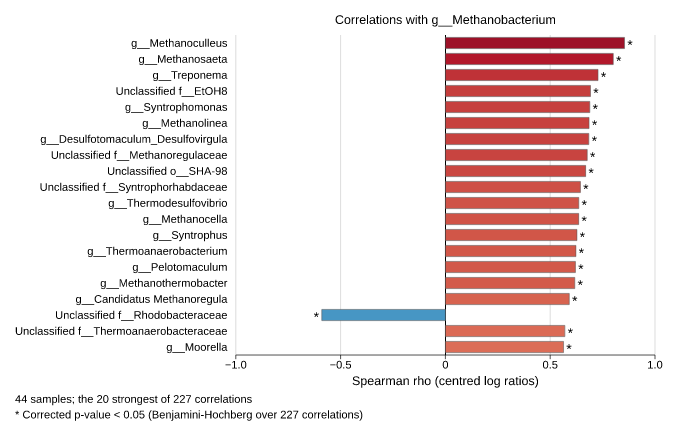
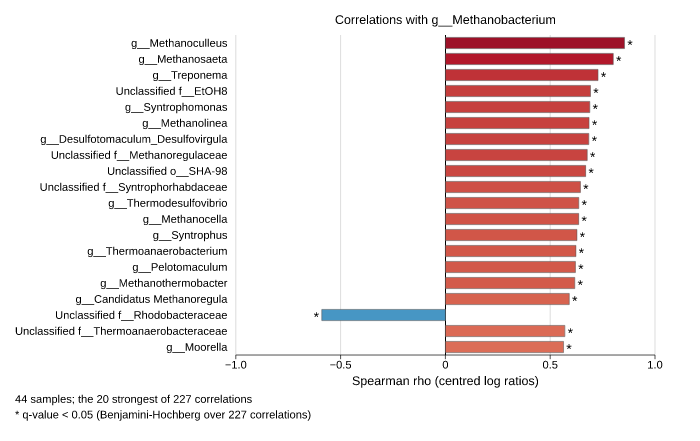
Label Benjamini-Hochberg values as q-values
Both false discovery rate corrections, Benjamini-Hochberg and Storey,
now give "q-value" in plots, tooltips and the co-occurrence marks;
"Corrected p-value" is kept for Bonferroni, Holm-Bonferroni and Sidak.
The p-value filter is again called "q-value filter" under either false
discovery rate, as in STAMP v2. Change 61, documentation and the six
figures that use Benjamini-Hochberg are updated.

Changed region(s): [[0.03, 0.9138, 0.51, 0.9728]]

diff --git a/crates/stamp-gui/tests/ui.rs b/crates/stamp-gui/tests/ui.rs
@@ -1272,32 +1272,49 @@ fn unticked_groups_and_inactive_samples_leave_the_lists() {
 }
 
 #[test]
-fn filter_is_named_for_q_values_under_storeys_correction() {
-    // The label is drawn text; its width shows which one is in use.
+fn filter_is_named_for_q_values_under_a_false_discovery_rate() {
+    use stamp_core::stats::correction::Correction;
+    // The label is drawn text; its pixels show which one is in use.
     let mut harness = Harness::enterotypes();
     harness.settle();
-    let before = harness.screenshot("p_value_filter_label");
-    // Benjamini-Hochberg values are corrected p-values: the name stays.
-    harness.app.session.set_correction(
-        Mode::TwoGroups,
-        stamp_core::stats::correction::Correction::BenjaminiHochberg,
+    let label = |harness: &mut Harness, correction, name| {
+        harness
+            .app
+            .session
+            .set_correction(Mode::TwoGroups, correction);
+        harness.settle();
+        let shot = harness.screenshot(name);
+        (985..1110)
+            .flat_map(|x| (380..403).map(move |y| (x, y)))
+            .map(|(x, y)| shot.pixel(x, y))
+            .collect::<Vec<_>>()
+    };
+    let none = label(&mut harness, Correction::None, "p_value_filter_label");
+    let bonferroni = label(
+        &mut harness,
+        Correction::Bonferroni,
+        "bonferroni_filter_label",
     );
-    harness.settle();
-    let corrected = harness.screenshot("corrected_p_value_filter_label");
-    let same = (985..1110)
-        .flat_map(|x| (380..403).map(move |y| (x, y)))
-        .all(|(x, y)| before.pixel(x, y) == corrected.pixel(x, y));
-    assert!(same, "the filter label changed under Benjamini-Hochberg");
-    harness.app.session.set_correction(
-        Mode::TwoGroups,
-        stamp_core::stats::correction::Correction::Storey,
+    let bh = label(
+        &mut harness,
+        Correction::BenjaminiHochberg,
+        "q_value_filter_label",
     );
-    harness.settle();
-    let after = harness.screenshot("q_value_filter_label");
-    let differs = (985..1110)
-        .flat_map(|x| (380..403).map(move |y| (x, y)))
-        .any(|(x, y)| before.pixel(x, y) != after.pixel(x, y));
-    assert!(differs, "the filter label did not change");
+    let storey = label(&mut harness, Correction::Storey, "storey_filter_label");
+    // "p-value filter" with no correction and under Bonferroni; "q-value
+    // filter" under both false discovery rates.
+    assert!(
+        none == bonferroni,
+        "the filter label changed under Bonferroni"
+    );
+    assert!(
+        none != bh,
+        "the filter label did not change under Benjamini-Hochberg"
+    );
+    assert!(
+        bh == storey,
+        "the filter labels of the two FDR methods differ"
+    );
 }
 
 #[test]

diff --git a/crates/stamp-plot/src/p_values.rs b/crates/stamp-plot/src/p_values.rs
@@ -1,5 +1,5 @@
 //! How plots name the p-values they show: uncorrected, corrected for
-//! testing many features, or Storey's q-values.
+//! testing many features, or q-values of a false discovery rate.
 
 use stamp_core::stats::correction::Correction;
 
@@ -10,9 +10,10 @@ pub enum PValueKind {
     /// chosen or because the plot shows the values before correction.
     #[default]
     Uncorrected,
-    /// Corrected by a method other than Storey's.
+    /// Corrected for the family-wise error rate (Bonferroni,
+    /// Holm-Bonferroni, Sidak).
     Corrected,
-    /// Storey's q-values.
+    /// q-values of a false discovery rate (Benjamini-Hochberg, Storey).
     QValue,
 }
 
@@ -21,7 +22,7 @@ impl PValueKind {
     pub fn of(correction: Correction) -> PValueKind {
         match correction {
             Correction::None => PValueKind::Uncorrected,
-            Correction::Storey => PValueKind::QValue,
+            _ if correction.is_false_discovery_rate() => PValueKind::QValue,
             _ => PValueKind::Corrected,
         }
     }
@@ -91,14 +92,15 @@ mod tests {
             "Uncorrected p-value"
         );
         for c in [
-            Correction::BenjaminiHochberg,
             Correction::Bonferroni,
             Correction::HolmBonferroni,
             Correction::Sidak,
         ] {
             assert_eq!(PValueKind::of(c).label(), "Corrected p-value", "{c:?}");
         }
-        assert_eq!(PValueKind::of(Correction::Storey).label(), "q-value");
+        for c in [Correction::BenjaminiHochberg, Correction::Storey] {
+            assert_eq!(PValueKind::of(c).label(), "q-value", "{c:?}");
+        }
         // Values shown before correction are uncorrected, whatever the
         // correction.
         assert_eq!(

diff --git a/crates/stamp-plot/src/co_occurrence_plot.rs b/crates/stamp-plot/src/co_occurrence_plot.rs
@@ -314,7 +314,7 @@ fn significance_note(settings: &Settings, tests: usize) -> String {
         String::new()
     };
     format!(
-        "* Corrected p-value < {}{strength} (Benjamini-Hochberg over {tests} correlations)",
+        "* q-value < {}{strength} (Benjamini-Hochberg over {tests} correlations)",
         settings.q_threshold
     )
 }
@@ -443,7 +443,7 @@ pub fn matrix_plot(data: &Data, settings: &Settings, options: &Options) -> Figur
                     tooltip_lines(
                         &crate::group_heatmap::format_significant(result.p_values[i][j], 3),
                         &crate::group_heatmap::format_significant(q, 3),
-                        PValueKind::Corrected,
+                        PValueKind::QValue,
                     ),
                 ),
             );
@@ -667,7 +667,7 @@ pub fn partner_plot(
                 tooltip_lines(
                     &crate::group_heatmap::format_significant(partner.p_value, 3),
                     &crate::group_heatmap::format_significant(partner.q_value, 3),
-                    PValueKind::Corrected,
+                    PValueKind::QValue,
                 ),
             ),
         );
@@ -792,9 +792,7 @@ mod tests {
         let shown = texts(&figure);
         assert!(shown.iter().any(|t| t == "*"));
         assert!(shown.contains(&"Spearman rho (proportions)".to_string()));
-        assert!(shown
-            .iter()
-            .any(|t| t.starts_with("* Corrected p-value < 0.05")));
+        assert!(shown.iter().any(|t| t.starts_with("* q-value < 0.05")));
         assert!(shown.iter().any(|t| t.starts_with("6 samples;")));
         // Rows and columns follow the same order: each label twice.
         for name in ["a", "b", "c", "d", "e"] {

diff --git a/crates/stamp-plot/src/sample_plots.rs b/crates/stamp-plot/src/sample_plots.rs
@@ -736,7 +736,7 @@ mod tests {
         // Most abundant in the first sample comes first.
         assert_eq!(figure.regions[0].item, "feature 12");
         assert!(has_text(&figure, "*") && has_text(&figure, "Proportion of sequences (%)"));
-        // Benjamini-Hochberg values are corrected p-values.
+        // The corrected values are named as the caller says.
         assert!(figure.regions[0].tooltip.contains("\nCorrected p-value: "));
 
         let top3 = profile_bar(
@@ -807,7 +807,8 @@ mod tests {
             },
         );
         assert_eq!(rects(&p, Color::grey(0.5)), 12);
-        assert!(has_text(&p, "Corrected p-values"));
+        // Benjamini-Hochberg q-values.
+        assert!(has_text(&p, "q-values"));
         // Smallest p-value at the top.
         assert_eq!(p.regions[0].item, results.rows[0].feature);
 
@@ -842,8 +843,8 @@ mod tests {
             "Number of features",
             "Uncorrected p-value",
             "# significant features",
-            // Benjamini-Hochberg, which is not Storey's q-value.
-            "Corrected p-value",
+            // Benjamini-Hochberg q-values.
+            "q-value",
         ] {
             assert!(has_text(&figure, label), "missing {label}");
         }

diff --git a/crates/stamp-gui/src/app.rs b/crates/stamp-gui/src/app.rs
@@ -530,7 +530,7 @@ impl FilterUi {
         q_values: bool,
     ) -> bool {
         let before = self.clone();
-        // Storey's correction gives q-values; the plots name them so too.
+        // A false discovery rate gives q-values; the plots name them so too.
         let p_label = if q_values {
             "q-value filter (>):"
         } else {
@@ -3486,7 +3486,8 @@ impl StampApp {
             Mode::TwoGroups => self.session.groups.analysis.correction,
             Mode::MultipleGroups => self.session.multi.analysis.correction,
             Mode::Correlation => self.session.correlation.analysis.correction,
-        } == stamp_core::stats::correction::Correction::Storey;
+        }
+        .is_false_discovery_rate();
         let selection = &mut self.selections[mode_slot(mode)];
         let mut open_dialog = false;
         let mut selection_changed = false;

diff --git a/crates/stamp-cli/src/args.rs b/crates/stamp-cli/src/args.rs
@@ -1066,7 +1066,7 @@ pub struct CoOccurrenceArgs {
     /// With --with: number of correlations shown in the plot
     #[arg(long, default_value_t = 30, value_name = "N")]
     pub partners: usize,
-    /// Mark correlations with a Benjamini-Hochberg corrected p-value below this level
+    /// Mark correlations with a Benjamini-Hochberg q-value below this level
     #[arg(long, default_value_t = 0.05, value_name = "Q")]
     pub q_threshold: f64,
     /// Mark only correlations at least this far from zero (with a large number

diff --git a/crates/stamp-cli/tests/cli.rs b/crates/stamp-cli/tests/cli.rs
@@ -905,8 +905,8 @@ fn every_plot_type_can_be_drawn() {
         ("profile-bar", "Proportion of sequences (%)"),
         ("scatter", "Black (%)"),
         ("sequence-histogram", "Sequences"),
-        // Benjamini-Hochberg: corrected p-values (q-values are Storey's).
-        ("p-value-histogram", "Corrected p-value"),
+        // Benjamini-Hochberg: q-values.
+        ("p-value-histogram", "q-value"),
         ("multiple-comparison", "# significant features"),
     ] {
         let svg = svg_plot(

diff --git a/crates/stamp-gui/src/plot_config.rs b/crates/stamp-gui/src/plot_config.rs
@@ -1756,7 +1756,7 @@ pub fn show(
                 );
                 rows.number_if(
                     co.mark_significant,
-                    "Corrected p-value below (Benjamini-Hochberg):",
+                    "q-value below (Benjamini-Hochberg):",
                     &mut co.q_threshold,
                     0.005,
                     0.0001..=1.0,

diff --git a/docs/CHANGES_FROM_PYTHON.md b/docs/CHANGES_FROM_PYTHON.md
@@ -92,7 +92,7 @@ Status: **planned** = found, not yet ported. **done** = ported and tested.
 | 46 | done | The "Configure plot" window groups related options in titled frames as v2 does ("Figure size", "Sort rows", "Legend position" and so on), under v2's labels. An option that depends on another is greyed out rather than hidden: the height of the PCA plot under "Fixed pixels per unit distance", for example. Legend positions are chosen from a list instead of radio buttons, and the options v2 left outside any frame are gathered in an "Other options" frame at the bottom. |
 | 47 | done | Tukey-Kramer and Games-Howell report computed p-values and confidence limits from the studentized range distribution, where v2 reported a bound read from tables (`< 0.05`) and limits from the same tables, interpolated for Games-Howell. Every computed p-value of the reference cases lies within v2's bound, and the limits differ from v2's by at most 0.25%. Any coverage can be used, not only the five that had tables. A comparison that cannot be made (a single-sample group under Games-Howell) has no p-value rather than ">= 0.1". |
 | 48 | done | File > Load profile opens BIOM tables and mothur taxonomy files as well as STAMP profiles, telling them apart by their content or name. A BIOM table with observation metadata asks which field gives the hierarchy; a mothur taxonomy file asks for its groups file and, optionally, its names file. The profile is loaded without first being saved as a file. |
-| 49 | done | Added to the graphical application from v2: keyboard shortcuts (Ctrl+O, Ctrl+S, Ctrl+Q, Ctrl+W, Ctrl+P, Ctrl+L, Ctrl+M, Ctrl+T; in a browser those the browser keeps for itself do not reach the page); sending a copy of the plot to a window of its own (a separate window on the desktop, a floating one in the browser); remembering the layout, preferences and plot settings between runs; preferences for the smallest p-value reported and for the colours of the two samples, of "All other samples" and of axes; a tooltip listing the samples of each group; and "q-value filter" as the name of the p-value filter under a false discovery rate correction (since [61], under Storey's FDR only). Menu items have icons (Phosphor Icons, MIT licence). |
+| 49 | done | Added to the graphical application from v2: keyboard shortcuts (Ctrl+O, Ctrl+S, Ctrl+Q, Ctrl+W, Ctrl+P, Ctrl+L, Ctrl+M, Ctrl+T; in a browser those the browser keeps for itself do not reach the page); sending a copy of the plot to a window of its own (a separate window on the desktop, a floating one in the browser); remembering the layout, preferences and plot settings between runs; preferences for the smallest p-value reported and for the colours of the two samples, of "All other samples" and of axes; a tooltip listing the samples of each group; and "q-value filter" as the name of the p-value filter under a false discovery rate correction. Menu items have icons (Phosphor Icons, MIT licence). |
 | 50 | done | As in v2, a group unticked in the group list is no longer offered as Group 1 or Group 2, and a sample switched off in the metadata table is no longer offered in the two-sample analysis. If the group or sample in use is removed this way, the next one takes its place. |
 | 51 | done | In the browser, analyses are carried out a few features at a time between redraws, so the page keeps responding and shows progress during long resampling tests, and they can be cancelled. This is done on the page's own thread rather than in a web worker. White's test, which works on all features at once, is still done in one piece. |
 | 52 | done | Start-up settings follow v2: the two-sample analysis begins with "G-test (w/ Yates') + Fisher's" and the "DP: Asymptotic-CC" confidence interval; samples are listed in alphabetical order and the first two are compared; the sequence filters start at 5, the parent sequence filters at 1 and the multiple-group effect-size filter at 0.8; and the kinds of the two-group sequence filter are listed in v2's order. |
@@ -104,7 +104,7 @@ Status: **planned** = found, not yet ported. **done** = ported and tested.
 | 58 | done | Plot text is set in Arial by default, the usual font of scientific figures, rather than v2's DejaVu Sans (matplotlib's default). Arial cannot be bundled, so it is drawn with Liberation Sans, which has the same letter widths, and SVG files ask for Arial first. Settings > Preferences offers Arial, Times New Roman, Courier New (bundled as Liberation Serif and Mono) and DejaVu Sans. |
 | 59 | done | File > Load profile also opens SingleM condensed profiles and Sandpiper profiles (JSON), and its file dialog accepts several files, which must all be Sandpiper profiles (one sample each). A Sandpiper file is recognised before a BIOM table, since the BIOM check takes any JSON object for a table. Samples left out by the new Sample filter are greyed out in the metadata table, whose own Add/Remove filter and tick boxes work as in v2 within the samples the Sample filter keeps. |
 | 60 | done | Groups beyond the tenth get colours of their own: the palette has twenty colours, v2's ten (unchanged, so existing figures look the same) followed by ten stronger ones (Tableau 10 without its grey, and ColorBrewer Set3's yellow); after twenty they repeat, and the command line warns. v2 (`groupLegendDlg.py`) gave every group after the tenth black, so that, for example, thirteen host groups showed three black groups. |
-| 61 | done | Plots name the p-values they show by the multiple test correction: "Uncorrected p-value" with no correction (or when a plot is set to show the values before correction), "Corrected p-value" after Bonferroni, Holm-Bonferroni, Sidak or Benjamini-Hochberg, and "q-value" after Storey's FDR (`stamp-plot/src/p_values.rs`). v2 called both FDR methods' values "q-value" and wrote "p-value" or "p-value (corrected)" otherwise, so that, for example, uncorrected values could be labelled corrected. This covers axis labels, column headings, tooltips and the p-value written on the box, bar and correlation plots; the post-hoc plot calls its p-values corrected (they allow for the number of pairs) except for Welch's (uncorrected). The p-value filter is likewise called "q-value filter" only under Storey's FDR, where v2 used that name for Benjamini-Hochberg too. Decided by the user (2026-11-15). |
+| 61 | done | Plots name the p-values they show by the multiple test correction: "Uncorrected p-value" with no correction (or when a plot is set to show the values before correction), "Corrected p-value" after Bonferroni, Holm-Bonferroni or Sidak, and "q-value" after Benjamini-Hochberg or Storey's FDR (`stamp-plot/src/p_values.rs`). v2 wrote "p-value" or "p-value (corrected)" for the family-wise corrections, so that, for example, uncorrected values could be labelled corrected. This covers axis labels, column headings, tooltips and the p-value written on the box, bar and correlation plots; the post-hoc plot calls its p-values corrected (they allow for the number of pairs) except for Welch's (uncorrected). The p-value filter is called "q-value filter" under either false discovery rate, as in v2. Decided by the user (2026-11-15). |
 
 ## Kept as is
 

diff --git a/docs/site/plots.rst b/docs/site/plots.rst
@@ -23,9 +23,8 @@ Save plot as**. Point at any part of a plot to see what it stands for.
 
    * **Uncorrected p-value** when no correction is chosen, or when the plot
      is set to show the values before correction;
-   * **Corrected p-value** after Bonferroni, Holm-Bonferroni, Sidak or
-     Benjamini-Hochberg;
-   * **q-value** after Storey's FDR.
+   * **Corrected p-value** after Bonferroni, Holm-Bonferroni or Sidak;
+   * **q-value** after Benjamini-Hochberg or Storey's FDR.
 
    The p-values of a post-hoc plot allow for the number of pairs of groups
    (they are *Corrected p-values*), except those of *Welch's
@@ -91,7 +90,7 @@ Rows can be sorted by p-value, effect size or name in *Configure plot*.
    :width: 100%
 
    Subsystems that differ between the *Red* and *Black* iron mine samples,
-   with Benjamini-Hochberg corrected p-values.
+   with Benjamini-Hochberg q-values.
 
 Volcano plot
 ^^^^^^^^^^^^
@@ -105,7 +104,7 @@ line marks the significance threshold.
    :width: 80%
 
    Volcano plot of the genera of Enterotype 1 against Enterotype 3, with
-   Benjamini-Hochberg corrected p-values.
+   Benjamini-Hochberg q-values.
 
 **What to look for.** The interesting features are in the **upper
 corners**: large and significant. Points high up but near the middle are
@@ -163,7 +162,7 @@ and the number of features that would be significant at each threshold.
    The Benjamini-Hochberg correction of the iron mine subsystems.
 
 **What to look for.** The right-hand panel helps choose a threshold: here
-about 50 features are significant at a corrected p-value of 0.02, and few more are
+about 50 features are significant at a q-value of 0.02, and few more are
 added until about 0.06. The middle panel shows how much the correction
 raised the p-values.
 
@@ -478,7 +477,7 @@ the chosen features across the samples of the analysis (or of one of its
 groups): which features rise and fall together. Red cells are positive
 correlations, blue negative; features are clustered so that those that
 co-vary sit together, in the same order along both axes. An asterisk marks
-correlations whose Benjamini-Hochberg corrected p-value (over all the pairs shown) is
+correlations whose Benjamini-Hochberg q-value (over all the pairs shown) is
 below 0.05, optionally only those at least a chosen distance from zero.
 
 The features are the 30 of highest mean abundance (or prevalence), plus any

diff --git a/docs/site/statistics.rst b/docs/site/statistics.rst
@@ -149,9 +149,8 @@ false positives among the features called significant. A cut-off of 0.05
 means that, on average, about 5% of the features kept are false
 discoveries. This is the usual choice for exploratory studies of many
 features, where some false leads are acceptable if most findings are real.
-Their corrected values are often called q-values; STAMP's plots keep that
-name for Storey's values and call Benjamini-Hochberg's *corrected p-values*
-(see :ref:`how plots name p-values <p-value-labels>`).
+The corrected values are called **q-values** (see :ref:`how plots name
+p-values <p-value-labels>`).
 
 * **Benjamini-Hochberg FDR**: the standard method.
 * **Storey FDR**: estimates the proportion of features that truly do not
@@ -467,8 +466,7 @@ The :ref:`co-occurrence heatmap <plot-co-occurrence>` and ``stamp-cli
 co-occurrence`` correlate features with each other across samples, with the
 same Pearson and Spearman coefficients and p-values as above (computed as in
 SciPy's ``pearsonr`` and ``spearmanr``, against which they are tested). The
-corrected p-values (the ``q-value`` column of the table) are
-Benjamini-Hochberg over the n(n − 1)/2 pairs of the n features
+q-values are Benjamini-Hochberg over the n(n − 1)/2 pairs of the n features
 shown (or over the correlations of one feature with all others).
 
 .. warning::
@@ -490,7 +488,7 @@ shown (or over the correlations of one feature with all others).
      features typical of each environment; correlate within one group to
      look for associations within an environment;
    * with many samples, even very weak correlations are significant: judge
-     the coefficient, not only the corrected p-value;
+     the coefficient, not only the q-value;
    * a correlation is not an interaction between the features.
 
 Whole communities

diff --git a/docs/site/command_line.rst b/docs/site/command_line.rst
@@ -277,7 +277,7 @@ of the profile, or with ``--metadata`` those that ``--where``,
    every correlation, strongest first, and the plot shows the N strongest
    (default 30) as bars.
 ``--q-threshold Q``, ``--mark-min-coefficient R``, ``--no-marks``
-   Asterisks mark correlations with a Benjamini-Hochberg corrected p-value below Q (default 0.05) and,
+   Asterisks mark correlations with a Benjamini-Hochberg q-value below Q (default 0.05) and,
    optionally, at least R from zero; or none.
 ``--order``, ``--no-dendrograms``, ``--show-values``, ``--color-map``
    Order of the features (``cluster``, default, or ``original``), the
